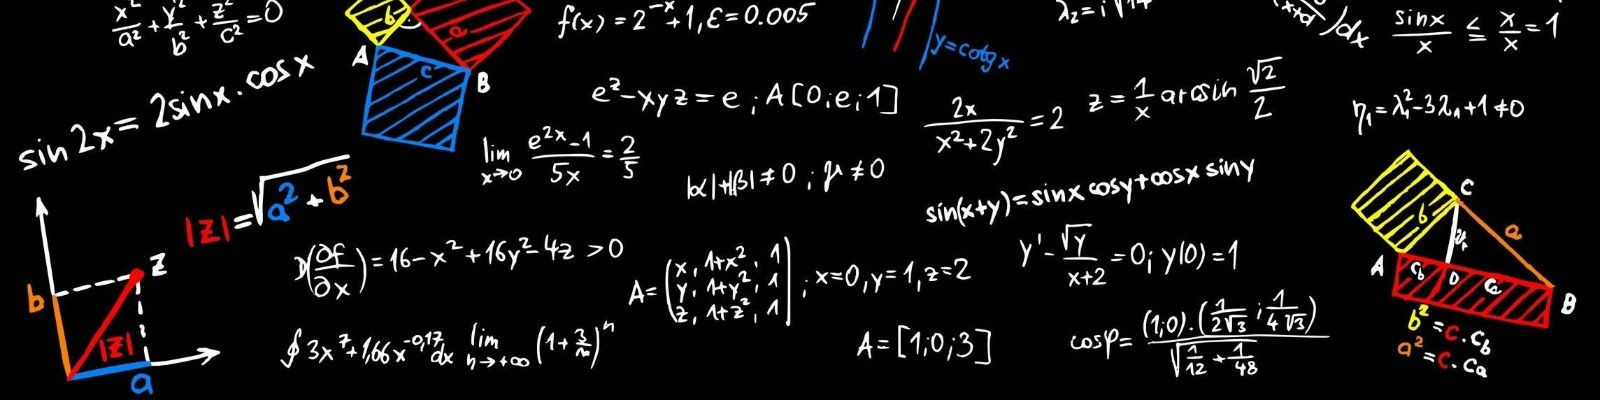
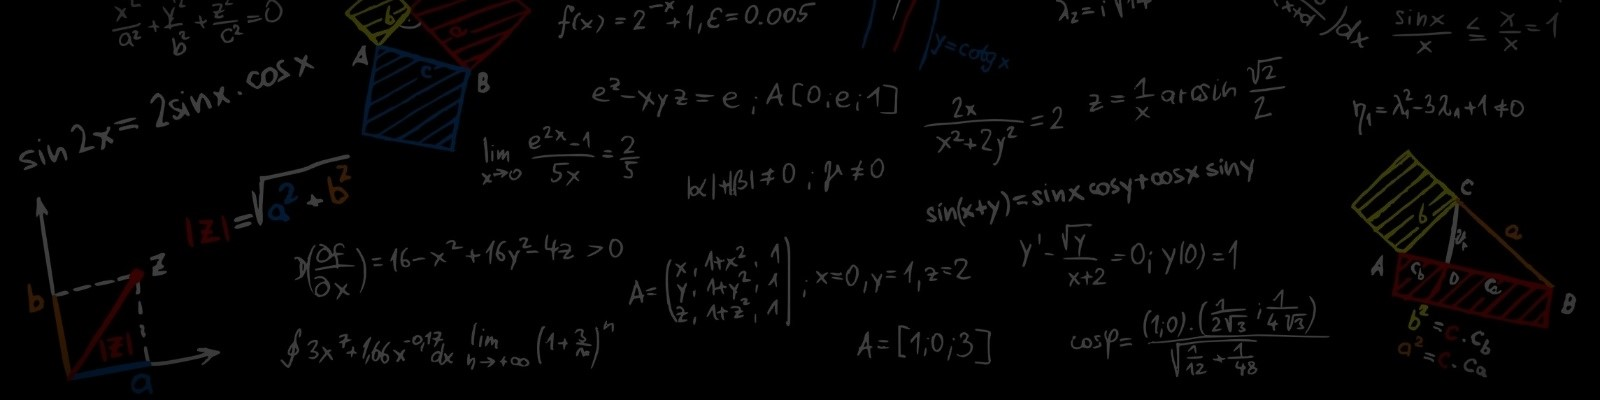
Added more to home page

diff --git a/public/css/poop.css b/public/css/poop.css
@@ -6,16 +6,21 @@ body {
     text-align: left;
 }
 
-.header {
-    background-image: url('img/mathbanner.jpg'); 
-    background-size: cover; 
-    color: rgb(0, 0, 0);
-
-    padding-top: 40px;
-    padding-bottom: 5px;
-    padding-left: 20px;
-
+.banner {
+    position: relative;
     text-align: center;
+    color: white;
+  }
+
+.banner-content {
+    position: absolute;
+    top: 50%;
+    left: 50%;
+    transform: translate(-50%, -50%);
+    
+    text-align: center; 
+    color: rgb(255, 255, 255); 
+
     font-family: 'Century Gothic', sans-serif;
     font-weight: bold;
     font-size: 50px;
@@ -48,6 +53,7 @@ body {
 }
 
 .logo-image {
+    padding-top: 10px;
     padding-left: 5px;
     padding-right: 5px;
     
